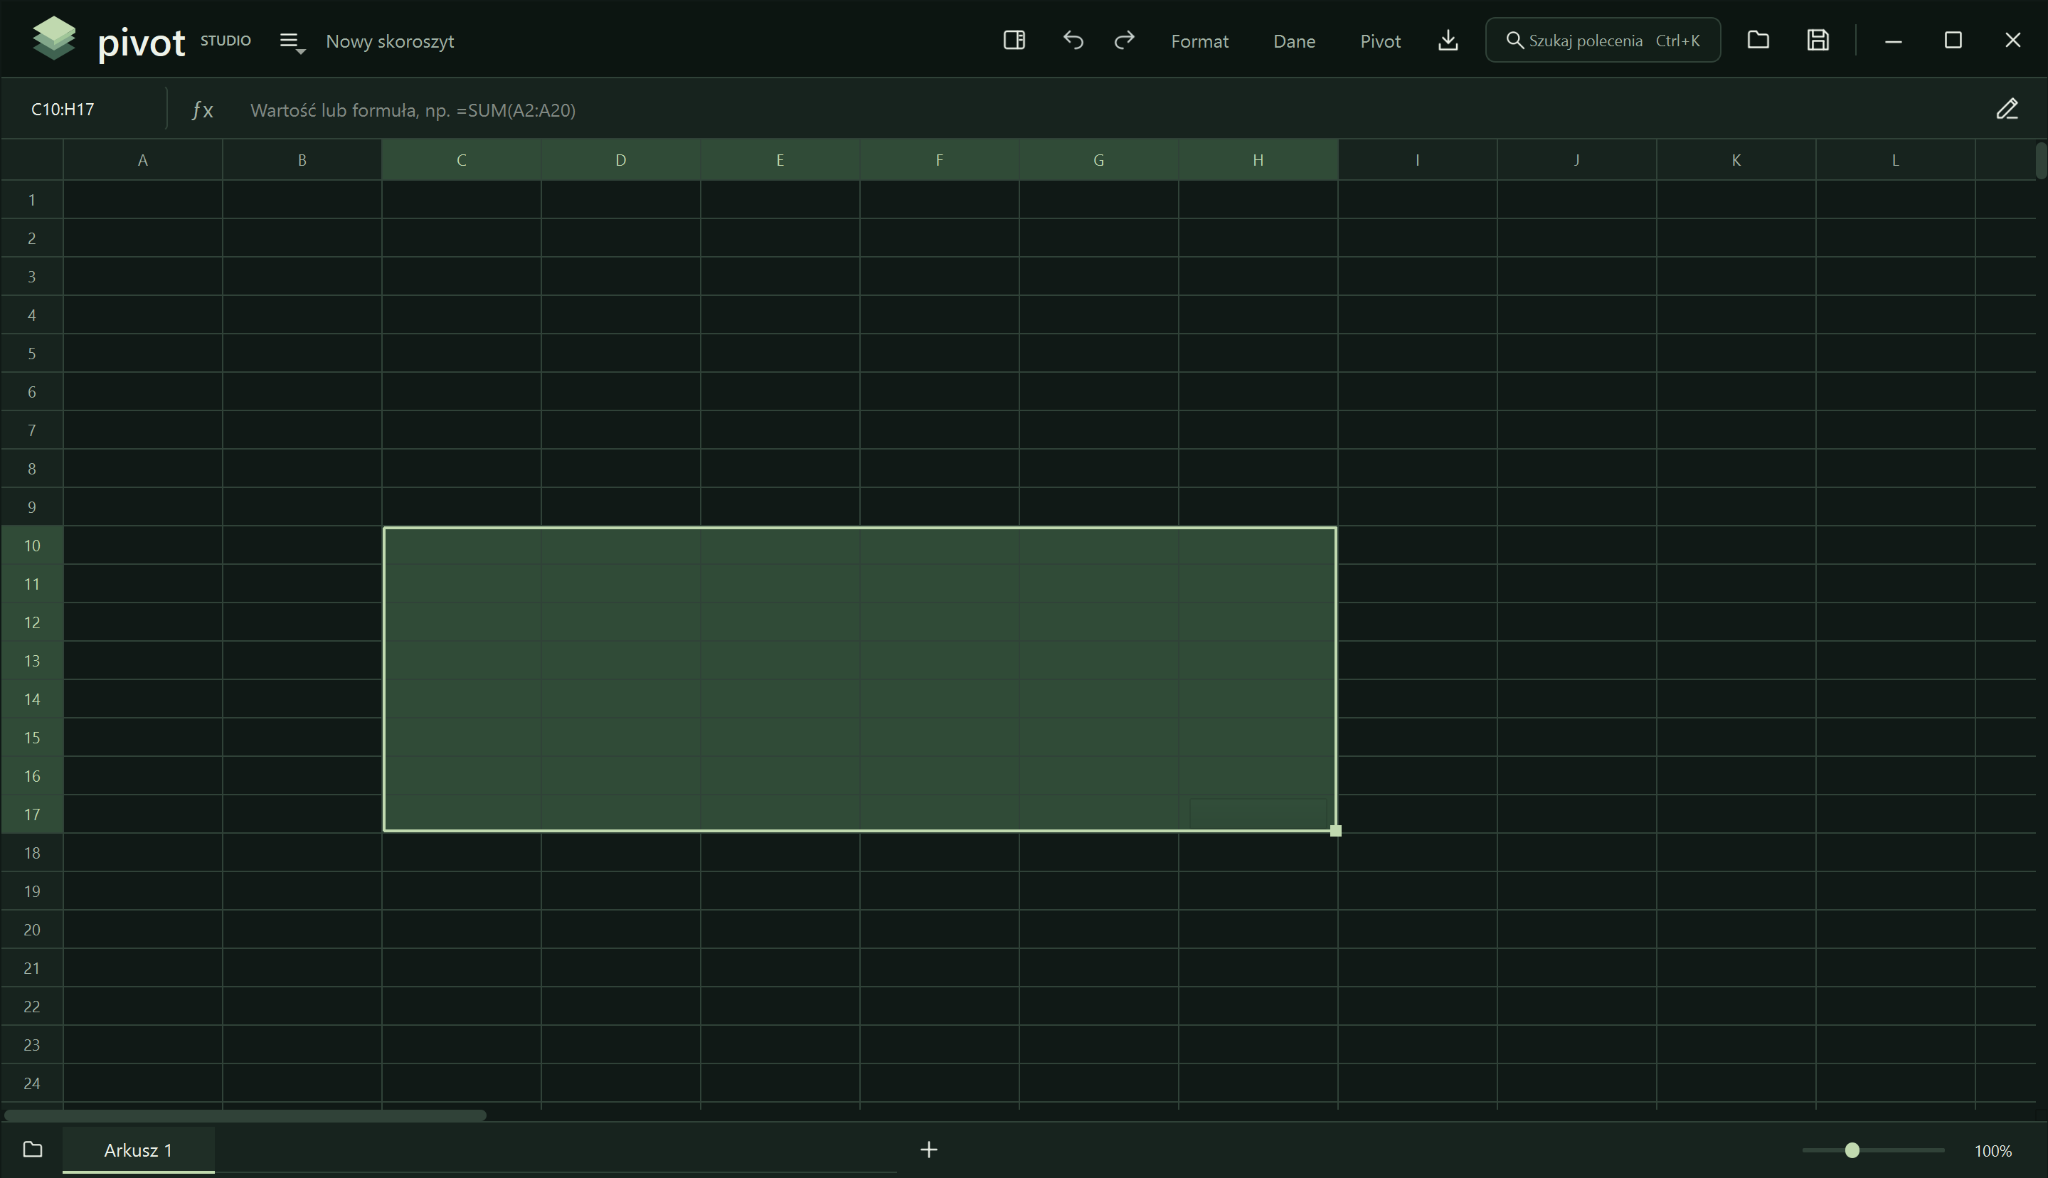
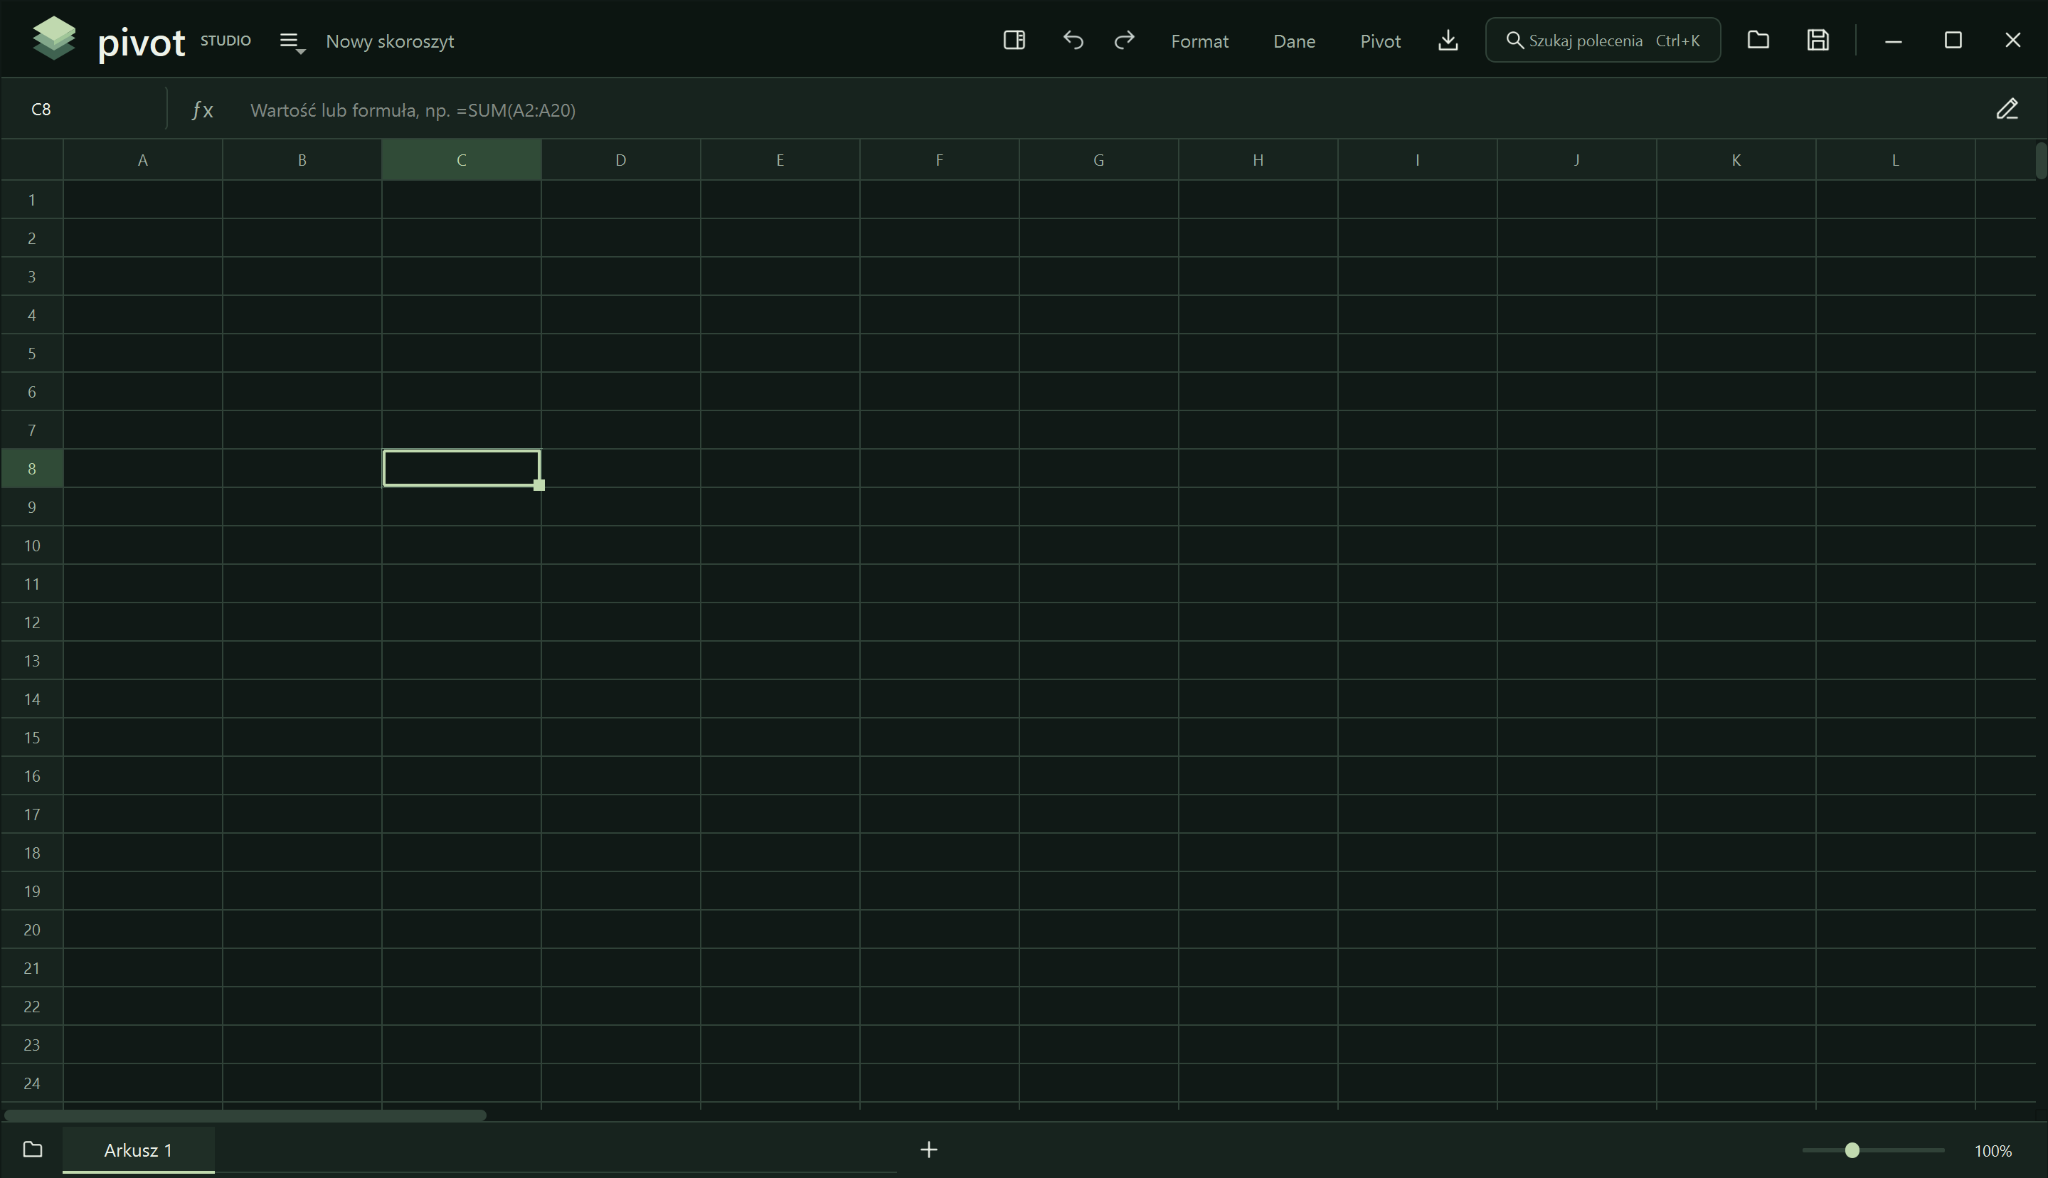
update

Changed region(s): [[0.1875, 0.3667, 0.6562, 0.7334], [0.25, 0.0917, 0.6562, 0.1528], [0.0, 0.3667, 0.0312, 0.7334]]

diff --git a/README.md b/README.md
@@ -1,88 +1,176 @@
+![Pivot Studio — od komórek do odpowiedzi. Zaznacz powiązane tabele, naciśnij Enter i otwórz wspólne dane.][hero]
+
 <h1 align="center">Pivot Studio</h1>
-<p align="center"><strong>Arkusz. Bazy danych. Relacje. Jedna przestrzeń pracy.</strong></p>
-<p align="center">Natywne Qt Widgets · jeden plik Python · lokalna praca · bez wstążki</p>
 
-**Pivot Studio** łączy edytowalny arkusz kalkulacyjny z eksploratorem baz, mapą relacji i tabelami przestawnymi. Otwierasz XLSX albo SQLite, oglądasz strukturę, łączysz powiązane tabele i analizujesz dane bez ręcznego przenoszenia ich między aplikacjami.
+<p align="center">
+<b>Swoboda arkusza. Struktura bazy. Siła tabel przestawnych.</b><br>
+Jedna lokalna aplikacja w pliku <code>PivotStudio.py</code>. Bez przeglądarki i bez rozbudowanej wstążki.
+</p>
 
-**Wydanie rozwojowe 0.7.1.** Nie jest pełnym zamiennikiem Excela ani certyfikowanym narzędziem bazodanowym.
+<p align="center">
+<a href="https://github.com/guziczak/pivotstudio/raw/refs/heads/main/PivotStudio.py"><b>Pobierz PivotStudio.py ↓</b></a>
+&nbsp; · &nbsp;
+<a href="#szybki-start">Uruchom</a>
+&nbsp; · &nbsp;
+<a href="#zobacz-jak-pracujesz">Zobacz, jak pracujesz</a>
+&nbsp; · &nbsp;
+<a href="#status-i-ograniczenia">Status i ograniczenia</a>
+</p>
 
-[Uruchomienie](#uruchomienie) · [Możliwości](#możliwości) · [Zrzuty](#zrzuty) · [Ograniczenia](#ograniczenia) · [Licencja](#licencja)
+---
 
-![Mapa relacji z zaznaczonymi tabelami](docs/screenshots/database-relations.png)
-*Rzeczywisty widok Windows z 0.7.0. Wersja 0.7.1 dodaje wykaz licencji, bez przebudowy diagramu.*
+Masz arkusz do uporządkowania? Bazę, której strukturę chcesz poznać? Dwie tabele, które dopiero razem odpowiadają na pytanie? **Pivot Studio łączy te zadania w jednym miejscu:** od komórek, przez mapę relacji i wspólne rekordy, po podsumowanie.
 
-## Uruchomienie
+Zaczynasz od pliku. Narzędzia otwierasz wtedy, gdy ich potrzebujesz.
 
-Pobierz **`PivotStudio.py`**, zapisz go lokalnie i uruchom:
+## Szybki start
 
-```console
+Pobierz **[PivotStudio.py](https://github.com/guziczak/pivotstudio/raw/refs/heads/main/PivotStudio.py)** i uruchom:
+
+```powershell
 py PivotStudio.py
 ```
 
-Na Linux/macOS: `python3 PivotStudio.py`.
+**Potrzebujesz Pythona 3.10–3.14, 64-bit, z Tcl/Tk.** Pierwszy start otwiera wybór **publicznego PyPI** albo **własnego Artifactory**, a następnie przygotowuje prywatne środowisko bibliotek. Nie musisz ręcznie wykonywać poleceń `pip`.
 
-Potrzebny jest **64-bitowy CPython 3.10–3.14** oraz **Tcl/Tk (Tkinter)**. Dla pełnego zestawu opcjonalnych sterowników użyj Pythona 3.11 lub nowszego; przypięty sterownik Firebirda nie obsługuje 3.10. Dostępność bibliotek zależy również od systemu i architektury. Windows jest głównym środowiskiem docelowym; pozostałe platformy nie zostały w pełni zweryfikowane.
-
-Przed pierwszym pobieraniem pojawia się okno przygotowania. Wybierasz **Publiczne PyPI** albo **Własne Artifactory** i wpisujesz własny adres indeksu. Dostępne są opcjonalne ustawienia CA, proxy i pakietów offline. Biblioteki trafiają do prywatnego środowiska. Hasło repozytorium nie jest zapisywane, a błąd Artifactory nie przełącza instalatora automatycznie na PyPI.
-
-![Wybór własnego źródła pakietów](docs/screenshots/setup-artifactory.png)
-*Uruchomiony Tkinter 0.7.1 na Linux/Xvfb. Adres example.com jest wyłącznie przykładem, nie domyślnym firmowym serwerem.*
-
-**Do uruchamiania i przekazywania aplikacji wystarczy sam plik `.py`.** README i screenshoty służą prezentacji repozytorium. Interpreter i biblioteki są osobnymi składnikami — program nie jest samodzielnym plikiem EXE.
-
-## Możliwości
-
-| Obszar | Co oferuje Pivot Studio |
-|---|---|
-| **Arkusz** | Kolumny A–XFD, numery wierszy, adres i pasek formuły, edycja komórek, kopiowanie zakresów, cofanie, podstawowe formatowanie, zakładki i zoom. Wirtualne adresowanie nie znosi limitów liczby zapisanych komórek. |
-| **Pliki** | XLSX z wieloma arkuszami, CSV/TSV, lokalne kopie robocze i eksport do nowej kopii XLSX. |
-| **Bazy** | Katalog tabel, widoków, kolumn, kluczy, indeksów i innych obiektów. Dane stronicowane tylko do odczytu. SQLite oraz opcjonalne adaptery H2, Firebird i Oracle. |
-| **Relacje** | Mapa zadeklarowanych kluczy obcych. Zaznacz powiązane tabele i naciśnij Enter, aby otworzyć wspólne dane przez LEFT/INNER JOIN. Niejednoznaczność wymaga wyboru. |
-| **Analizy** | Wiersze, kolumny, miary, filtry, sumy, średnie i liczby unikalne. Pivot i wykres z zakresu; obliczenia bazodanowe wykonywane u źródła. |
-| **Projekty** | `.pivot` v4, opcjonalne dołączanie przygotowanych danych, zapisane plany JOIN i odczyt starszych projektów. Kopia przed nadpisaniem starszego formatu. |
-| **Licencje** | **Pomoc → Technologie i licencje**: lokalne wersje bibliotek, deklaracje, warunki, źródła, teksty licencji oraz kopiowanie i eksport wykazu. |
-
-## Pierwsze kroki
-
-Otwórz **menu → Pomoc → Otwórz przykład**, aby zobaczyć fikcyjne dane. Własny XLSX możesz przeciągnąć na okno, a później przełączać arkusze zakładkami na dole.
-
-Upuszczenie pliku SQLite otwiera eksplorator bazy. W **Relacjach** zaznacz powiązane tabele i naciśnij **Enter**. To odczyt wspólnych danych, nie edycja bazy ani tworzenie fizycznej tabeli. Funkcje i polecenia można wyszukiwać przez **Ctrl+K**.
-
-## Zrzuty
+Od razu możesz upuścić XLSX lub SQLite na okno. Bez własnych danych: **menu → Pomoc → Otwórz przykład**.
 
 <details>
-<summary>Arkusz oraz pozostałe warianty okna przygotowania</summary>
+<summary><b>Wymagania, inne systemy i opcjonalne sterowniki</b></summary>
 
-### Arkusz
+Windows jest główną platformą docelową. Na Linux/macOS uruchomienie to `python3 PivotStudio.py`; dostępność bibliotek zależy od platformy, a pełny odbiór tych systemów pozostaje otwarty.
 
-![Kompaktowy arkusz z zaznaczeniem](docs/screenshots/spreadsheet.png)
+Dla wszystkich opcjonalnych sterowników potrzebny jest **Python 3.11 lub nowszy** — przypięty sterownik Firebirda nie obsługuje Pythona 3.10.
 
-*Historyczny zrzut Windows z 0.5.0, pokazujący układ arkusza. Późniejsze wersje poprawiły siatkę i kolory zaznaczenia.*
+| Źródło | Dodatkowe składniki |
+| :--- | :--- |
+| **SQLite** | Obsługa w Pythonie; bez osobnego serwera. |
+| **H2** | JPype1, zgodna 64-bitowa Java i wskazany JAR H2 2.x. |
+| **Firebird** | `firebird-driver` i zgodna biblioteka klienta Firebird. |
+| **Oracle** | `python-oracledb`; w trybie Thick także Oracle Client. |
 
-### Publiczne PyPI
-
-![Przygotowanie z publicznego PyPI](docs/screenshots/setup-pypi.png)
-
-### Jasny motyw przygotowania
-
-![Jasny motyw instalatora](docs/screenshots/setup-light.png)
-
-*Zrzuty instalatora: rzeczywisty Tkinter 0.7.1 na Linux/Xvfb, bez uruchamiania pobierania. Nie potwierdzają zachowania ramki Windows. Zrzuty aplikacji zostały przycięte bez paska zadań. Nie dodano makiety nieuruchomionego okna licencji.*
+Biblioteki i interpreter są osobnymi składnikami. Jeden plik `.py` oznacza prostą dystrybucję kodu aplikacji, nie samodzielny plik EXE.
 
 </details>
 
-## Ograniczenia
+## Zobacz, jak pracujesz
 
-Program nie zapewnia pełnej zgodności z Excelem, makrami ani wszystkimi obiektami i formułami XLSX. Przy pracy z ważnymi plikami zachowaj oryginały i sprawdź eksportowaną kopię.
+### 01 · Otwórz bazę, nie formularz
 
-Źródła baz pozostają tylko do odczytu. Edytujesz lokalny arkusz albo świadomie utworzoną kopię danych. **„Kopia strony → arkusz” obejmuje bieżącą stronę, nie cały wynik.** Płaski JOIN może powielać miary tabel nadrzędnych; pivot nie jest wielotabelowym modelem miar Excela.
+Przeciągnij plik SQLite na okno. Dostajesz **katalog tabel, widoków, kolumn, kluczy i indeksów** — bez obowiązkowego tworzenia analizy. Przełącz się na **Relacje**, żeby zobaczyć, co z czym się łączy.
 
-Aplikacja nie ma wbudowanej telemetrii, lokalnego serwera HTTP ani WebEngine i nie wysyła automatycznie skoroszytów. Sieć jest używana przy wybranej instalacji pakietów, połączeniu z bazą oraz po jawnym otwarciu źródła dokumentacji. Projekty, importy i migawki **nie są szyfrowane**.
+Powiązane tabele są blisko siebie. Linie prowadzą między polami kluczy. Mapę możesz przesuwać i powiększać; ręczny układ pozostaje po powrocie z danych.
 
-Nowy dialog licencji 0.7.1 nie został sprawdzony w uruchomionym PySide6 ani na Windows w środowisku przygotowania wydania. Testy rdzenia i Tkintera nie zastępują odbioru GUI. Adaptery H2, Firebird i Oracle wymagają prób na rzeczywistych instancjach.
+![Mapa struktury bazy: zaznaczone events i operations, wyróżnione pola klucza i polecenie otwarcia połączonych danych.][relations]
+
+### 02 · Zaznacz. Enter. Wspólne dane.
+
+Zaznacz powiązane tabele przez **Ctrl+klik** lub prostokąt i naciśnij **Enter**. Pivot otworzy wspólną kartę według zadeklarowanej relacji — bez przepisywania kluczy i bez ręcznego pisania SQL.
+
+Na przykład `events.operation_id → operations.operation_id`: zdarzenie i przypisana do niego operacja w jednym wierszu. Nagłówki wskazują pochodzenie pól, a rodzaj połączenia można zmienić między **wszystkimi rekordami podstawy (LEFT)** i **tylko dopasowanymi (INNER)**. Gdy relacja jest niejednoznaczna, wybierasz ją jawnie.
+
+![Wynik połączenia events i operations: wspólna tabela z nazwami źródeł w nagłówkach, filtrem i kartą wyniku.][joined]
+
+<sub>Identyfikatory operacji, zatwierdzeń i znaczniki czasu na zdjęciu zamaskowano.</sub>
+
+### 03 · Z rekordów zrób odpowiedź
+
+**Region do wierszy. Miesiąc do kolumn. Kwota do wartości.** Tak powstaje podsumowanie, które można filtrować, zapisać i wyeksportować. Dostępne są między innymi sumy, średnie, liczba rekordów i liczba wartości unikalnych.
+
+Przykład: **jak rozkłada się sprzedaż między regionami?**
+
+| Region | 2026-01 | 2026-02 | Ogółem |
+| :--- | ---: | ---: | ---: |
+| Południe | 9 000 | 13 500 | 22 500 |
+| Północ | 12 000 | 15 000 | 27 000 |
+| Zachód | 7 500 | 11 000 | 18 500 |
+| **Ogółem** | **28 500** | **39 500** | **68 000** |
+
+<sub>Fikcyjne dane: wynik obliczony silnikiem Pivot Studio 0.7.2 dla 12 rekordów. To tabela w README, nie zrzut interfejsu.</sub>
+
+Zaznaczenie w arkuszu może stać się źródłem pivota lub wykresu. Połączenie tabel może zasilić analizę pełnego wyniku, a nie tylko aktualnie oglądanej strony. **Przy relacji jeden-do-wielu dobierz właściwy poziom agregacji:** wartość z tabeli nadrzędnej może wystąpić w kilku wierszach JOIN-a.
+
+### 04 · Kiedy potrzebujesz arkusza — masz arkusz
+
+**A, B, C… u góry. 1, 2, 3… z lewej.** Aktywna komórka, pasek formuły, zakresy, zakładki i zoom. Do tego edycja, kopiowanie i wklejanie, cofanie, podstawowe formatowanie i lokalny silnik formuł.
+
+XLSX otwierasz jako skoroszyt z nazwanymi arkuszami. Przełączasz zakładki bez ponownego importowania pliku. Narzędzia **Format**, **Dane** i **Pivot** są pod ręką, ale nie zajmują czterech rzędów ekranu.
+
+![Lokalny arkusz Pivot Studio: kompaktowy nagłówek, pasek formuły, oznaczenia komórek i zakładki na dole.][sheet]
+
+<details>
+<summary><b>Praca z klawiaturą</b></summary>
+
+| Klawisz | W arkuszu |
+| :--- | :--- |
+| **Enter / Shift+Enter** | Zatwierdź wpis i przejdź w dół / w górę. |
+| **Tab / Shift+Tab** | Zatwierdź wpis i przejdź w prawo / w lewo. |
+| **Escape** | Anuluj niezapisaną edycję komórki. |
+| **F2** | Edytuj aktywną komórkę. |
+| **Ctrl+C / Ctrl+V** | Kopiuj / wklej zakres. |
+| **Ctrl+K** | Wyszukaj polecenie. |
+
+Obsługa zatwierdzania i nawigacji została przebudowana w **0.7.2**. Stan jej weryfikacji jest opisany w sekcji [Status i ograniczenia](#status-i-ograniczenia). Enter na diagramie ma osobne działanie: otwiera zaznaczone dane.
+
+</details>
+
+## Jedno przygotowanie. Twoje źródło bibliotek.
+
+Na pierwszym ekranie wybierasz, skąd pobrać pakiety. **Własny adres Artifactory**, opcjonalny login i hasło/token; dla sieci firmowej także CA i proxy. Jest również możliwość wskazania kompletu pakietów offline.
+
+<p align="center">
+<img src="docs/screenshots/setup-artifactory.png" width="720" alt="Okno przygotowania Pivot Studio z wyborem własnego Artifactory, adresem indeksu i opcjonalnym logowaniem.">
+</p>
+
+Hasło źródła pakietów nie jest zapisywane. Błąd firmowego indeksu **nie przełącza pobierania samowolnie na PyPI**. Przygotowane biblioteki pozostają w prywatnym środowisku — nie trzeba instalować ich globalnie.
+
+## Lokalnie, z jasnymi zasadami
+
+**Arkusz edytujesz. Bazę przeglądasz.** Połączenia bazodanowe i ich wyniki pozostają tylko do odczytu. Polecenie **„Kopia strony → arkusz”** tworzy edytowalną kopię bieżącej strony. Eksport XLSX zapisuje nową kopię skoroszytu, nie nadpisuje otwartego oryginału.
+
+**Zapisujesz pracę, nie tylko obraz tabeli.** Projekt `.pivot` zachowuje arkusze, analizy i nazwane plany połączeń. Przygotowane dane można dołączyć do projektu; oryginalny XLSX jest osobną decyzją. Nie jest to automatyczna kopia całego serwera bazodanowego.
+
+**Wiesz, czego używasz.** W **Pomoc → Technologie i licencje** sprawdzisz lokalne wersje składników, deklaracje i warunki, źródła oraz dostępne teksty licencji. Zestawienie można skopiować lub wyeksportować; nieznane wersje wymagają weryfikacji, nie dostają automatycznie zielonego „tak”.
+
+Aplikacja nie ma wbudowanej telemetrii ani WebEngine. Sieć jest potrzebna przy wybranym pobieraniu pakietów, połączeniach z serwerami baz i otwieraniu źródeł dokumentacji. **Projekty, importy i migawki nie są szyfrowane.**
+
+## Status i ograniczenia
+
+**0.7.2 · aktywnie rozwijane wydanie.** Pivot Studio nie jest pełnym zamiennikiem Excela. Obsługa formuł i formatowania ma określony zakres; makra i część obiektów XLSX nie są obsługiwane. Przy ważnych plikach zachowaj oryginał i sprawdź eksportowaną kopię.
+
+Roboczy skoroszyt ma limit **200 000 zapisanych komórek**, a pojedyncza operacja — **100 000**. Plan JOIN obejmuje **2–8 różnych tabel z jednego źródła**. Płaskie połączenie nie jest wielotabelowym modelem miar Excela. Widoczność katalogu bazy zależy od uprawnień konta.
+
+<details>
+<summary><b>Stan testów i pochodzenie materiałów</b></summary>
+
+Raport wydania 0.7.2: **379 testów rdzenia i regresji** oraz **61 testów przygotowania i Tkintera** zakończonych powodzeniem. **26 nowych testów klawiatury Qt nie wykonano** z powodu braku PySide6 w środowisku przygotowania wydania. Nie oznacza to potwierdzenia wszystkich interakcji na Windows. Adaptery H2, Firebird i Oracle wymagają prób na rzeczywistych instancjach.
+
+Zdjęcia przedstawiają rzeczywiście uruchomioną aplikację, nie makiety. Mapa i wynik JOIN-a pochodzą z Windows, z wersji 0.7.0; arkusz — z udostępnionego zdjęcia sprzed poprawki 0.7.2. Okno przygotowania to Tkinter 0.7.1 na Linux/Xvfb. Baner wykorzystuje fragment autentycznego diagramu. Zrzuty przycięto bez paska zadań; w wyniku JOIN-a zamaskowano techniczne identyfikatory i znaczniki czasu. Nie są to nowe zrzuty GUI 0.7.2.
+
+Mała tabela sprzedaży powyżej powstała z fikcyjnego, dwumiesięcznego zbioru. Jej wartości i sumy obliczono przez `run_pivot()` z niezmienionego kodu 0.7.2 i niezależnie porównano z agregacją SQLite. Nie przedstawia danych użytkownika ani nagrania GUI.
+
+Wbudowane sprawdzenia, uruchamiane jawnie:
+
+```powershell
+py PivotStudio.py --self-test       # rdzeń, bez Qt i bez sieci
+py PivotStudio.py --bootstrap-test  # przygotowanie i Tkinter, bez pobierania
+py PivotStudio.py --ui-test         # prawdziwe kontrolki; wymaga PySide6
+```
+
+</details>
 
 ## Licencja
 
-Kod aplikacji: [MIT](LICENSE). Biblioteki, Java i klienci baz zachowują odrębne licencje i wymagania. Deklaracje, warunki i dostępne źródła znajdziesz w **Pomoc → Technologie i licencje**; wykaz nie zastępuje pełnego audytu konkretnej dystrybucji.
+Własny kod aplikacji jest dostępny na **[MIT](LICENSE)**. Biblioteki, Java i klienci baz mają odrębne licencje oraz warunki dystrybucji. Wykaz w aplikacji pomaga je sprawdzić, ale nie zastępuje audytu konkretnego zestawu komponentów.
 
-Repozytorium nie zawiera bibliotek, plików JAR/DLL, fontów, gotowego venv ani prywatnych baz i projektów.
+Do przekazania programu wystarczy **`PivotStudio.py`**. W repozytorium są tylko kod, ten README, licencja i obrazy w `docs/screenshots/` — bez dołączonych bibliotek, venv i prywatnych plików baz.
+
+---
+
+<p align="center"><b>Otwórz dane. Zobacz powiązania. Znajdź odpowiedź.</b></p>
+<p align="center"><a href="https://github.com/guziczak/pivotstudio/raw/refs/heads/main/PivotStudio.py">Pobierz Pivot Studio</a> · <a href="#szybki-start">Wróć do startu ↑</a></p>
+
+[hero]: docs/screenshots/hero.png
+[relations]: docs/screenshots/database-relations.png
+[joined]: docs/screenshots/joined-data.png
+[sheet]: docs/screenshots/spreadsheet.png
